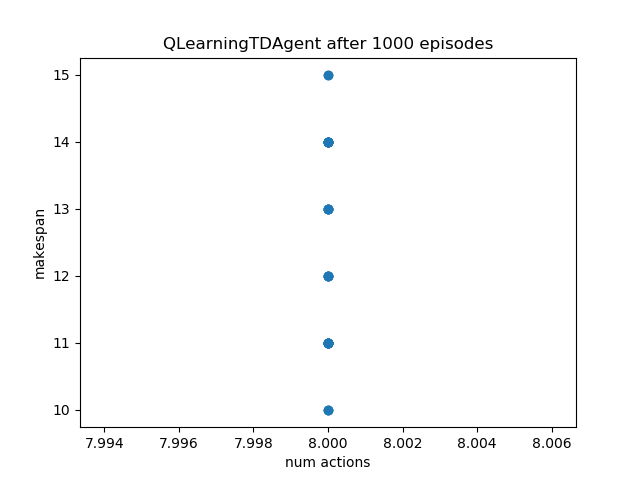
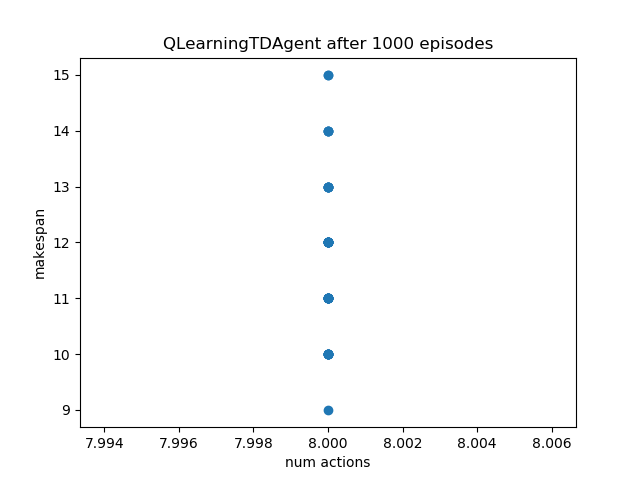
revamped Q values

diff --git a/day4/rl/jobshop_scheduling_demo.py b/day4/rl/jobshop_scheduling_demo.py
@@ -49,6 +49,8 @@ Reward: {reward}, Done: {done}, Info: {info}')
             title=f'{agent.__class__.__name__} after {episode_count} episodes')
         plt.savefig(f'{agent.__class__.__name__}_{episode_count}.png')
 
+    return success_history
+
 class RandomAgent:
     """The world's simplest agent!
       https://github.com/openai/gym/blob/master/examples/agents/random_agent.py
@@ -58,6 +60,9 @@ class RandomAgent:
 
     def act(self, observation, reward, done):
         return self.action_space.sample()
+    
+    def get_best_schedule(self):
+        pass # not implemented
 
 class QLearningTDAgent:
     """Q-Learning Agent with Temporal Differencing
@@ -87,6 +92,16 @@ class QLearningTDAgent:
         # Q-values (aka the "brain" of the agent)
         # These are the values of taking an action given
         # the current observation
+        # Schema:
+        # {
+        #   '[1, 1, 0, 0, 0, 1, 0, 0]' : 
+        #   {
+        #      action1: value1,
+        #      action2: value2,
+        #   }
+        # }
+        # Non-string keys may also be used but we are opting
+        # for readability
         self.Q = dict()
 
     def _get_valid_actions(self, observation):
@@ -117,18 +132,26 @@ class QLearningTDAgent:
             print(f'DEBUG (Agent): Valid Actions: {valid_actions}')
         return valid_actions
 
-    def get_QValues(self, observation, actions):
+    def get_QValues(self, observation, actions=None):
         """Returns the Q values for a state and set of actions
         observation: the current state
-        action: the action
+        action: the set of actions, or None for all actions
         """
         result = []
-        for action in actions:
-            key = f'{observation}_{action}'
-            if key not in self.Q:
-                self.Q[key] = 0.
+        obs_key = f'{observation}'
+        if obs_key not in self.Q:
+            self.Q[obs_key] = {}
 
-            result.append(self.Q[key])
+        if actions is None:
+            result = self.Q[obs_key].values()
+
+        else:
+            for action in actions:
+                action_key = f'{action}'
+                if action_key not in self.Q[obs_key]:
+                    self.Q[obs_key][f'{action}'] = 0.
+
+                result.append(self.Q[obs_key][action_key])
         return np.array(result)
 
     def set_QValue(self, observation, action, value):
@@ -137,8 +160,12 @@ class QLearningTDAgent:
         action: the action
         value: the Q-value
         """
-        key = f'{observation}_{action}'
-        self.Q[key] = value
+        obs_key = f'{observation}'
+        action_key = f'{action}'
+        if obs_key not in self.Q:
+            self.Q[obs_key] = {}
+
+        self.Q[obs_key][action_key] = value
 
     def act(self, observation, reward, done):
         """Update the Q-values, then take an action
@@ -178,14 +205,19 @@ next state: {next_observation}, max future reward: {max_future_reward:.3f}')
         self.set_QValue(observation, action, new_value)
 
         if self.verbose >= 10:
-            print(f'DEBUG (Agent): Q-values\n{self.Q.values()}')
+            print(f'DEBUG (Agent): Q-values for {observation}\n\
+{self.get_QValues(observation)}')
 
         return action
 
     def get_best_schedule(self):
         """Returns the scheduling actions based on highest Q-values
         """
-        pass
+        is_scheduled = [0] * self.tasks.length()
+        #while (sum(is_scheduled) < self.tasks.length):
+            #Q
+
+            #pass
 
 if __name__ == "__main__":
     # Each job is a list of multiple tasks: (machine_id, processing_time)
@@ -200,7 +232,7 @@ if __name__ == "__main__":
 
     agents = [
         RandomAgent(env.action_space),
-        QLearningTDAgent(jobs_data=jobs_data, max_schedule_time=12)
+        QLearningTDAgent(jobs_data=jobs_data, max_schedule_time=12, verbose=10)
     ]
 
     for agent in agents:
@@ -209,4 +241,8 @@ if __name__ == "__main__":
         env.reset()
         # in order for all tasks to be scheduled,
         # steps_per_episode should exceed number of tasks
-        RunAgent(env, agent, episode_count=1000, steps_per_episode=10)
+        success_history = RunAgent(env, agent, episode_count=1000,
+            steps_per_episode=10)
+
+        if len(success_history):
+            agent.get_best_schedule()
